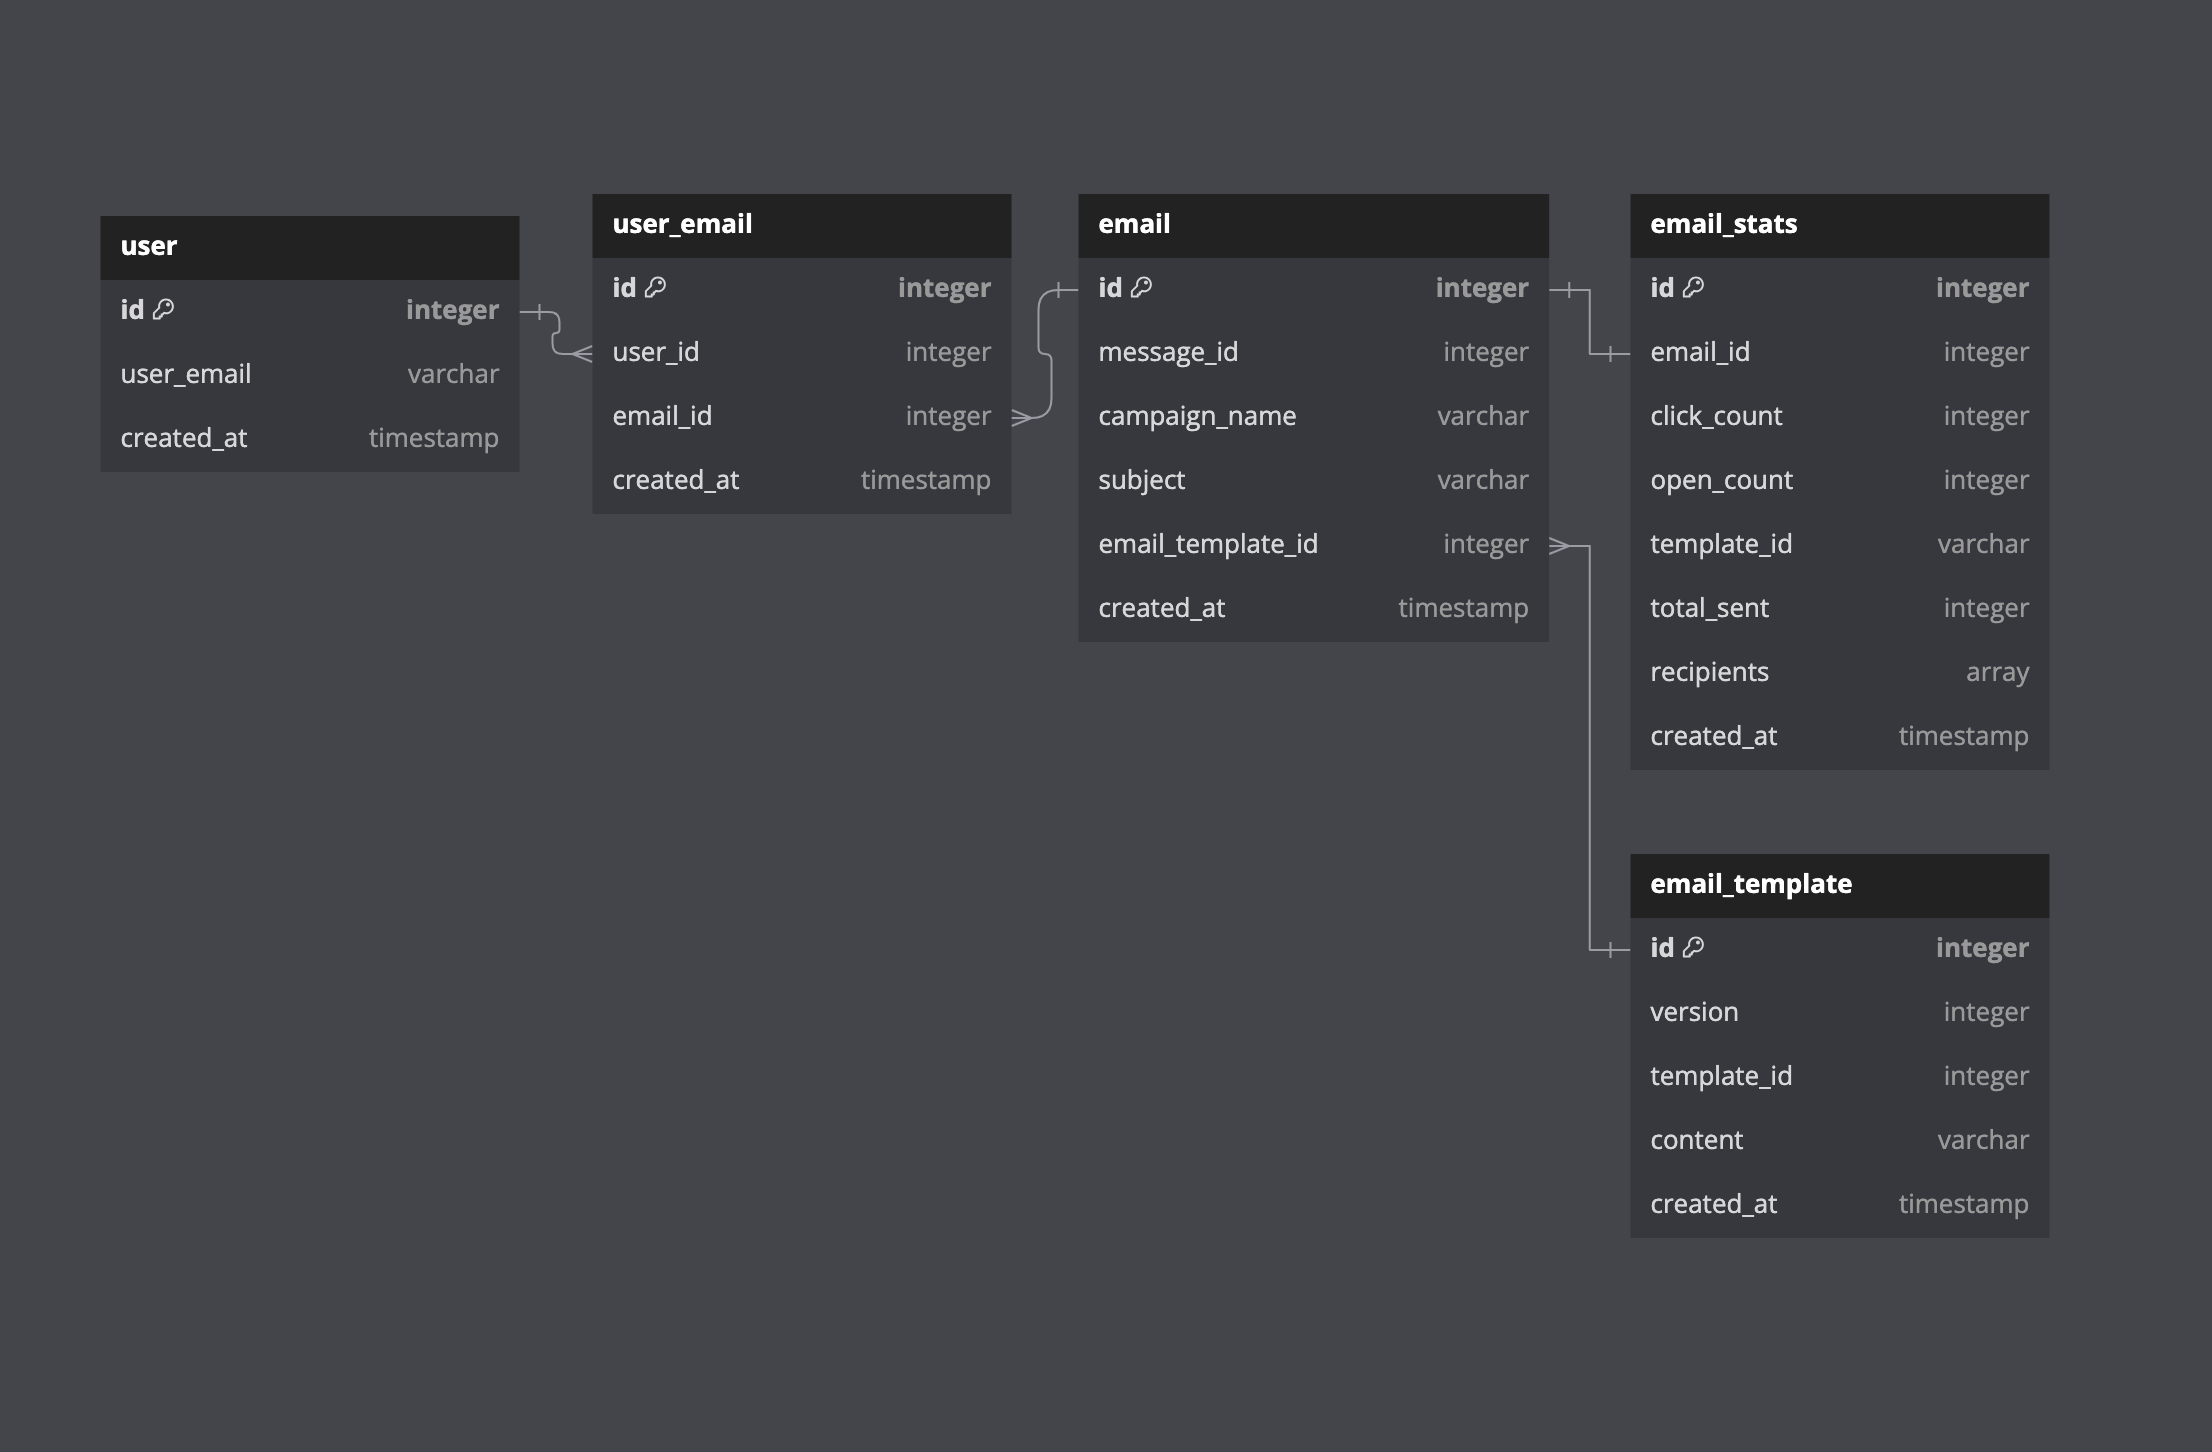
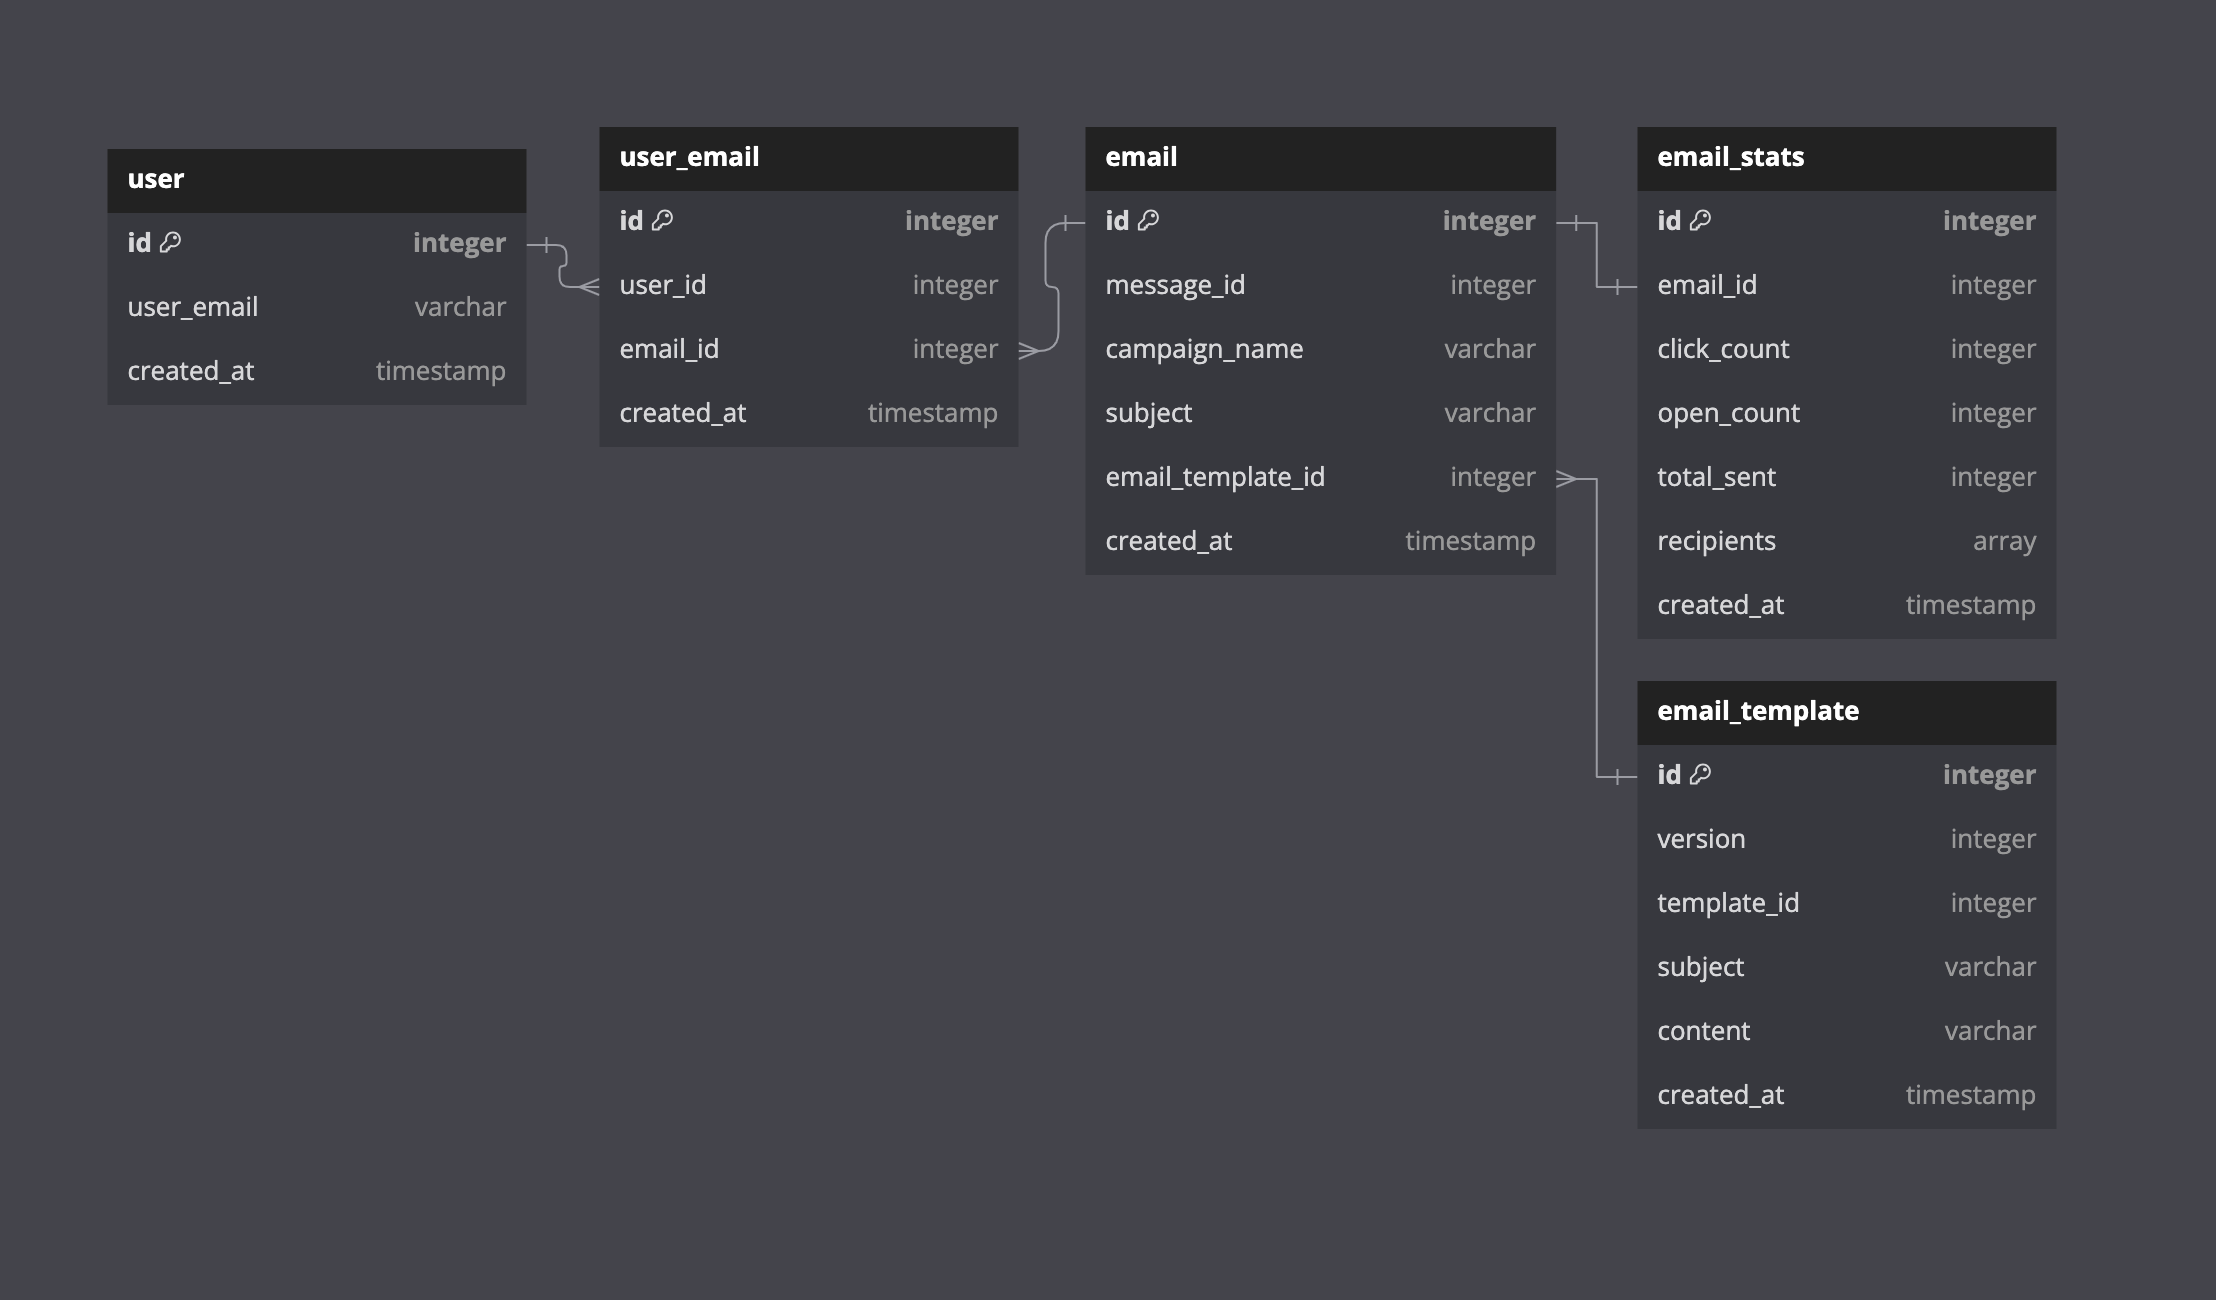
preparing video

diff --git a/routes/api.js b/routes/api.js
@@ -46,7 +46,7 @@ router.post("/send", (req, res) => {
         messageId: result.MessageID,
         campaignName: campaignName || "Default Campaign",
         subject: subject,
-        emailTemplateId: EmailTemplates[templateId][EmailTemplates[templateId].length - 1].id,
+        emailTemplateId: templateId,
         createdAt: new Date(),
       };
       Emails.push(newEmail);
@@ -65,7 +65,6 @@ router.post("/send", (req, res) => {
         emailId: newEmail.id,
         clickCount: 0,
         openCount: 0,
-        templateId: templateId,
         totalSent: Array.isArray(unqiueRecipients) ? unqiueRecipients.length : 1,
         createdAt: new Date(),
       });
@@ -89,7 +88,7 @@ router.post("/metrics", (req, res) => {
         (stat) => stat.emailId === foundEmail.id
     );
 
-    const foundEmailTemplate = EmailTemplates[foundEmailStats.templateId][EmailTemplates[foundEmailStats.templateId].length - 1]
+    const foundEmailTemplate = EmailTemplates[foundEmail.emailTemplateId][EmailTemplates[foundEmail.emailTemplateId].length - 1]
 
     const data = {
         template: foundEmailTemplate,

diff --git a/db.js b/db.js
@@ -42,7 +42,6 @@ const EmailStats = [
     emailId: 1,
     clickCount: 0,
     openCount: 0,
-    templateId: "36943148",
     totalSent: 0,
     recipients: [],
     createdAt: new Date(),
